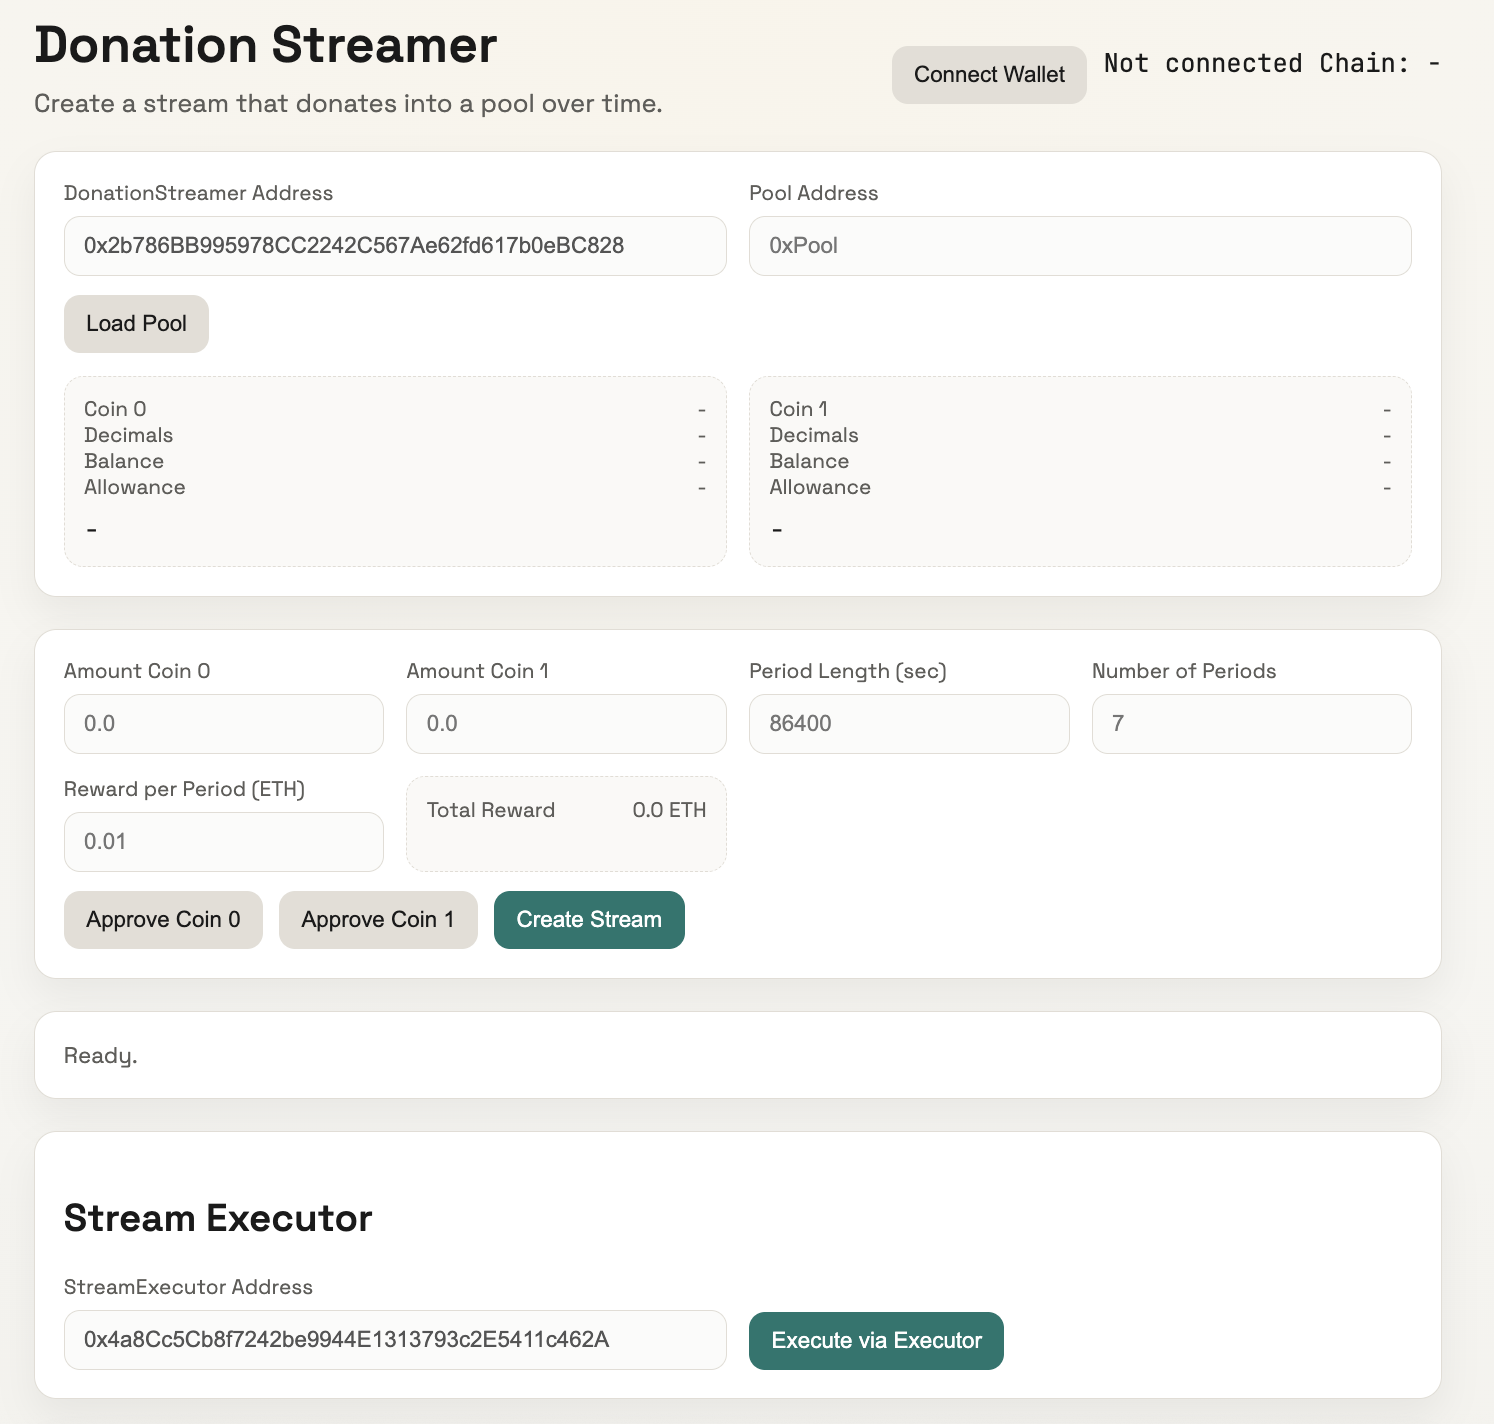
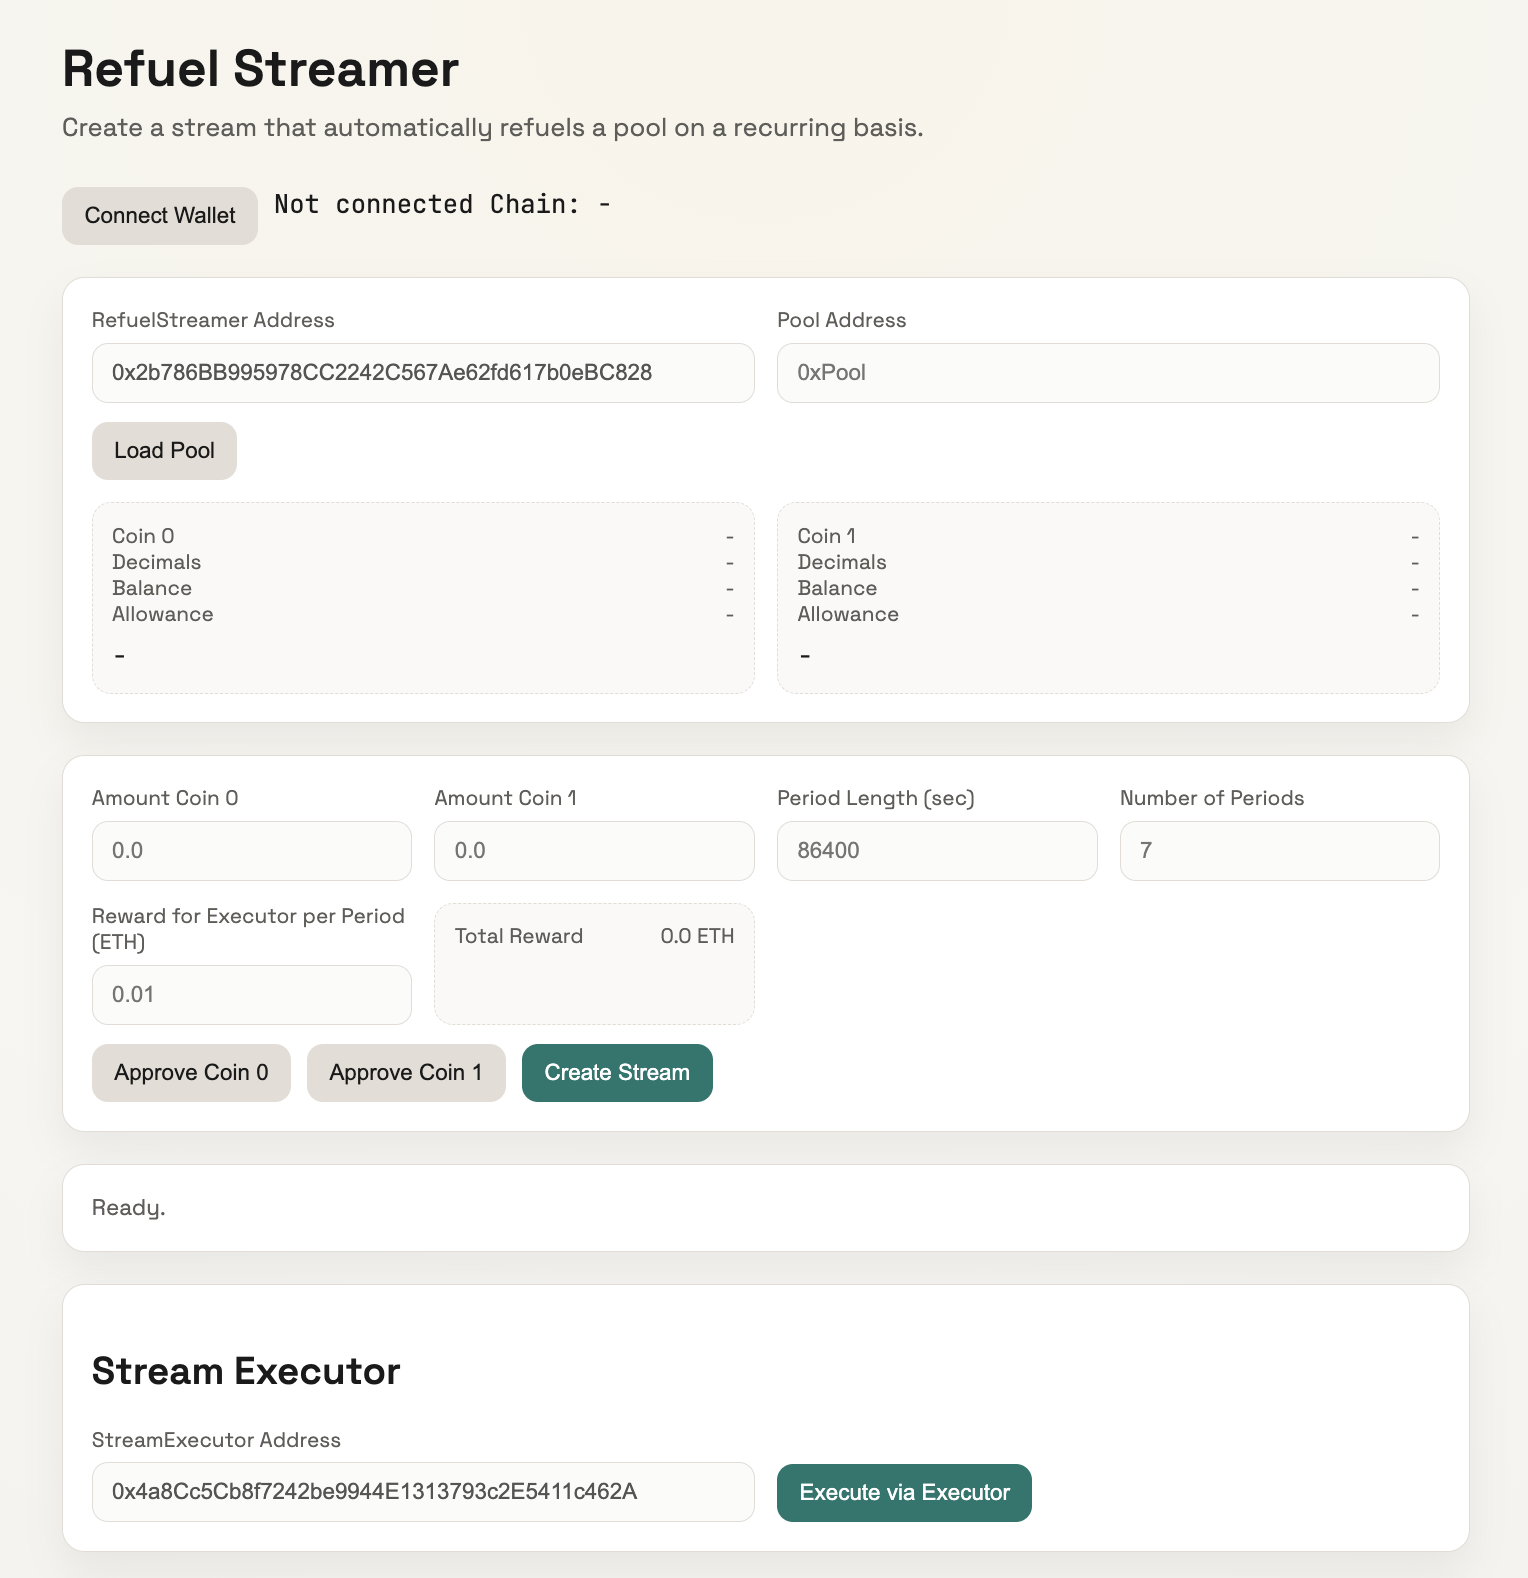
Update donation streamer guide with deployment info and new screenshots
Add vyper admonition with DonationStreamer contract addresses (Ethereum,
Gnosis, Base) and link to technical docs. Update UI screenshots.

diff --git a/docs/protocol/pool/guides/donation-streamer.md b/docs/protocol/pool/guides/donation-streamer.md
@@ -4,6 +4,16 @@ title: "Automating Refuels"
 sidebar_label: "Automating Refuels"
 ---
 
+:::vyper[`DonationStreamer.vy`]
+
+The technical documentation for the `DonationStreamer.vy` contract can be found [here](/developer/amm/twocrypto-ng/implementations/donation-streamer). The contract is deployed at the same address on all supported chains:
+
+- :logos-ethereum: Ethereum: [`0x2b786BB995978CC2242C567Ae62fd617b0eBC828`](https://etherscan.io/address/0x2b786BB995978CC2242C567Ae62fd617b0eBC828)
+- :logos-gnosis: Gnosis: [`0x2b786BB995978CC2242C567Ae62fd617b0eBC828`](https://gnosisscan.io/address/0x2b786BB995978CC2242C567Ae62fd617b0eBC828)
+- :logos-base: Base: [`0x2b786BB995978CC2242C567Ae62fd617b0eBC828`](https://basescan.org/address/0x2b786BB995978CC2242C567Ae62fd617b0eBC828)
+
+:::
+
 [FXSwap pools](../understanding-fxswap.md) use **refuels** to subsidize rebalancing and keep liquidity tight around the current price. While refuels can be added manually via [crvhub.com/refuel](https://crvhub.com/refuel), the **Donation Streamer** lets you automate this process — depositing tokens once and having them streamed into the pool over a set schedule.
 
 This is useful for projects that want to keep their FXSwap pools consistently refueled without manual intervention.
